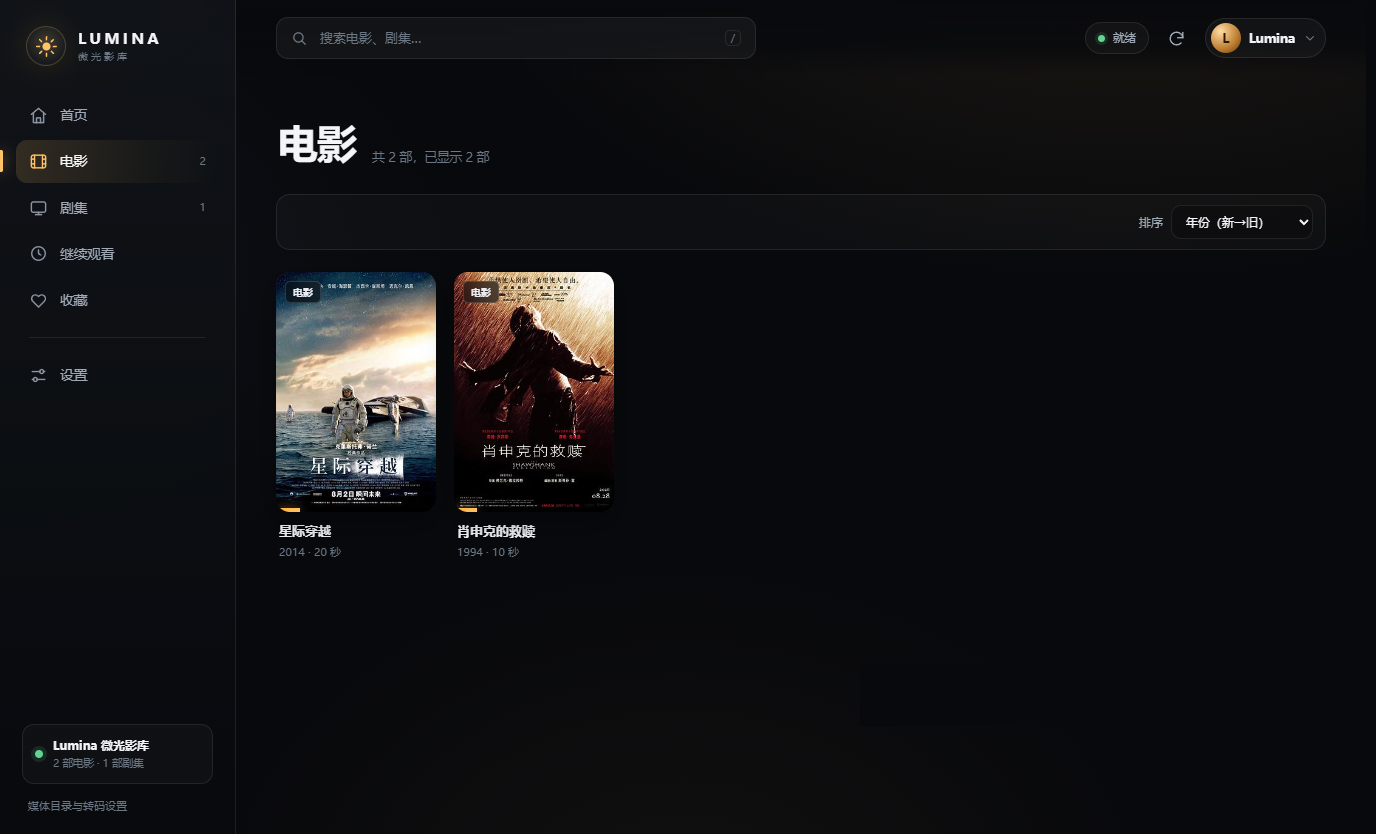
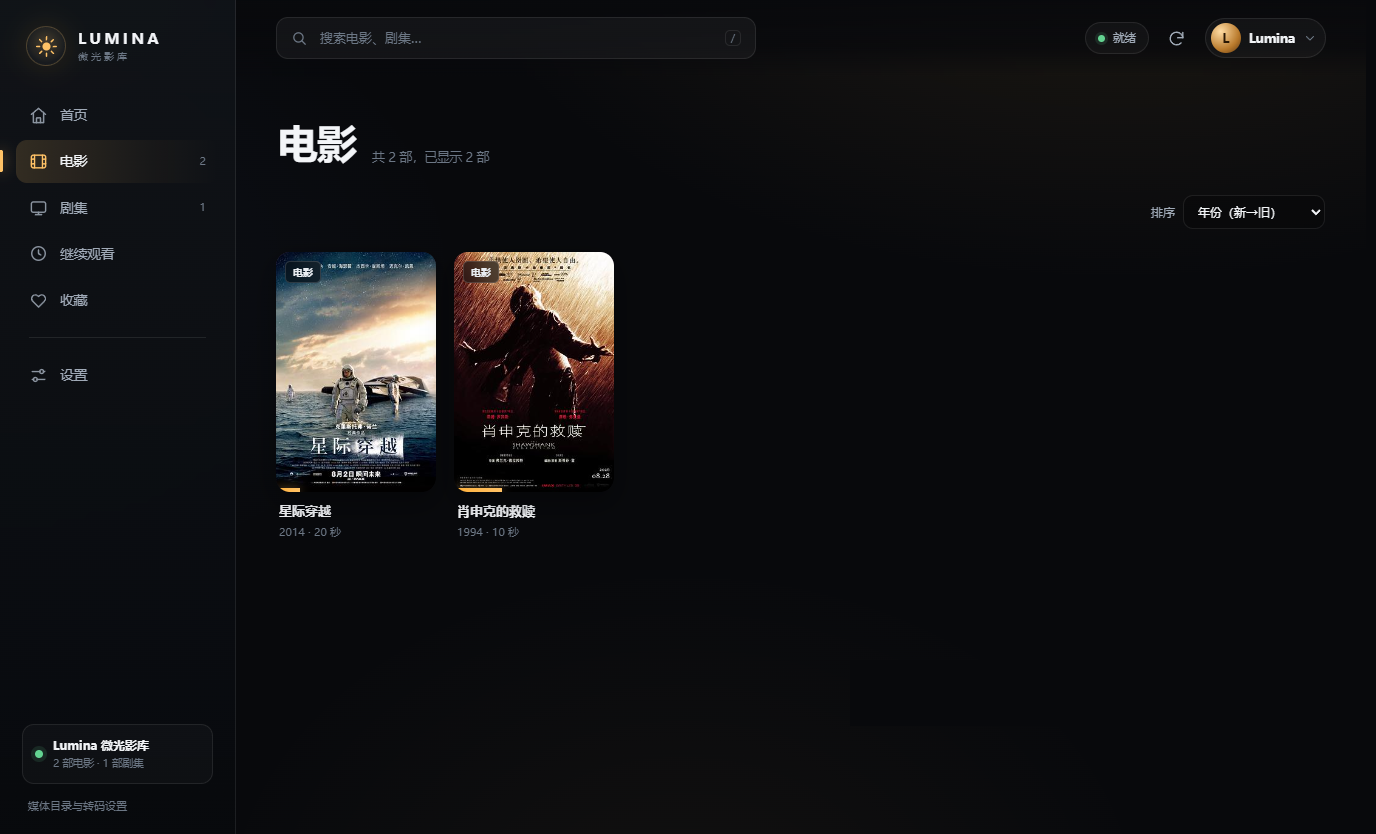
Polish single-library toolbar

Changed region(s): [[0.1875, 0.2806, 0.4688, 0.6859], [0.8125, 0.2494, 0.9375, 0.2806]]

diff --git a/public/css/app.css b/public/css/app.css
@@ -3990,7 +3990,12 @@ body.modal-open { overflow: hidden; }
   background: rgba(12, 15, 20, 0.92);
   backdrop-filter: blur(12px);
 }
-.browse-toolbar.is-single { justify-content: flex-end; }
+.browse-toolbar.is-single {
+  justify-content: flex-end;
+  padding: 0;
+  border-color: transparent;
+  background: transparent;
+}
 .browse-toolbar.is-single .sort-control { margin-left: auto; }
 .load-more-wrap { display: flex; justify-content: center; padding: 26px 0 8px; }
 .load-more { gap: 8px; }
